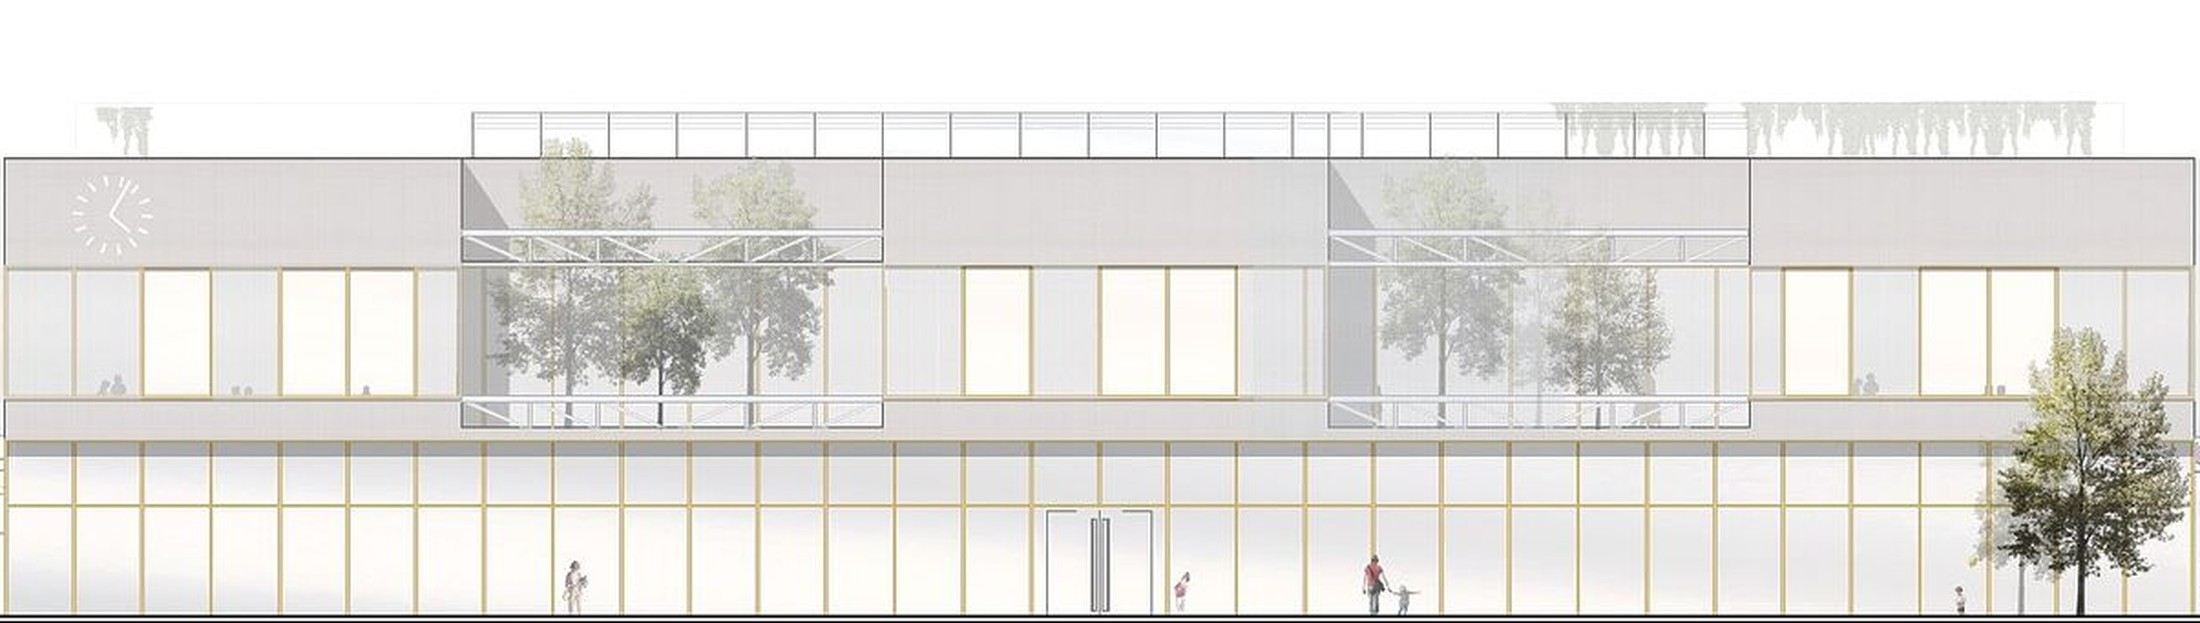
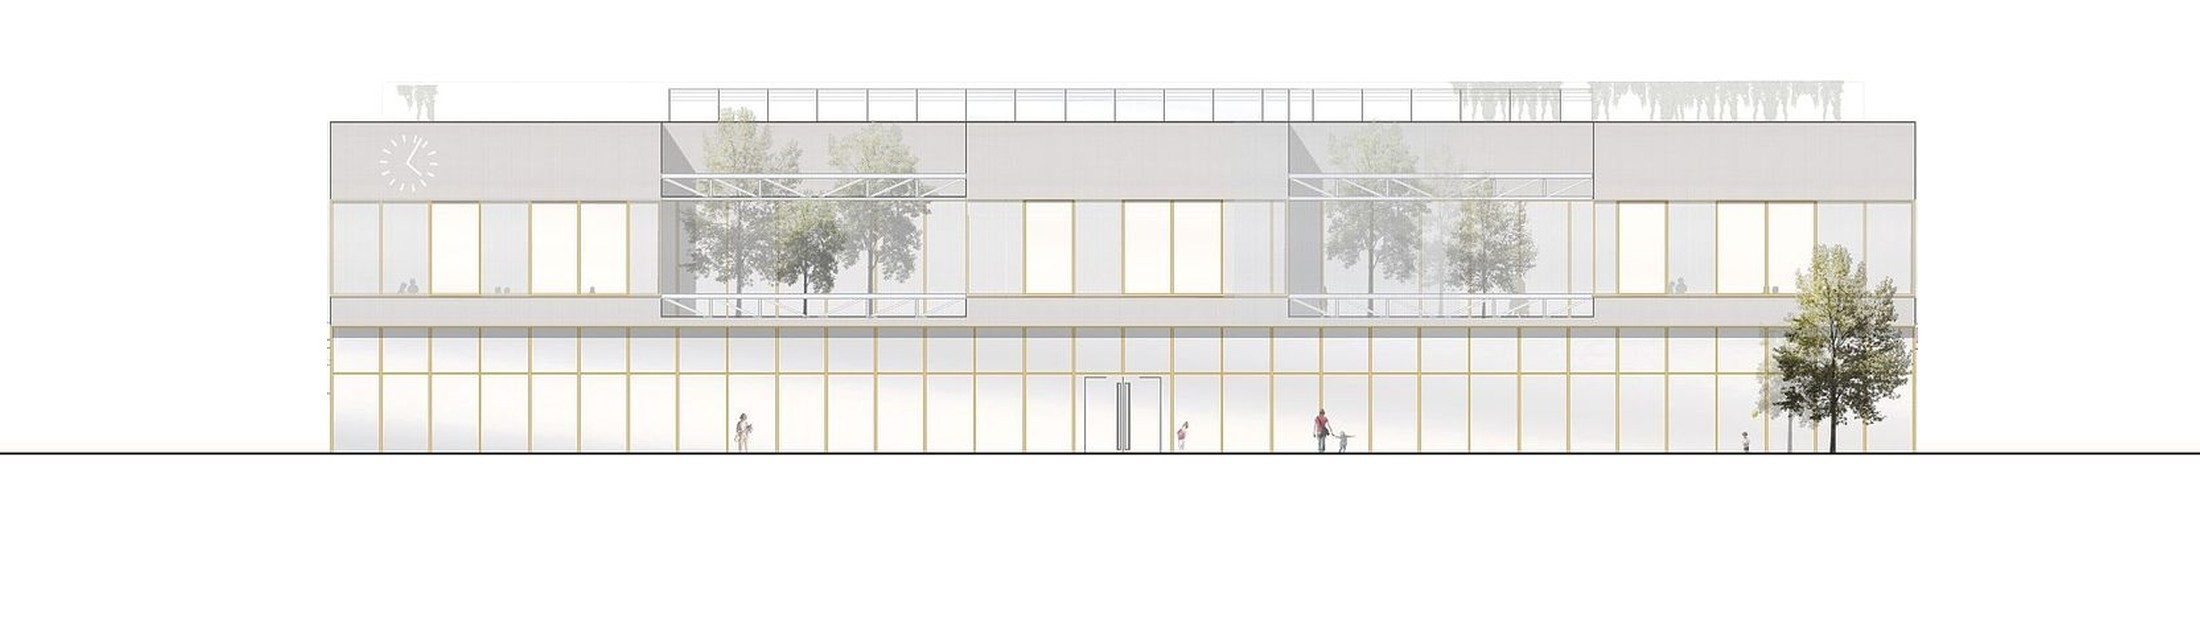
Website aktualisiert 15.11.2026 18:45

diff --git a/index.html b/index.html
@@ -334,6 +334,21 @@ div.box{cursor:default}
 @keyframes skHop{0%,55%,100%{transform:translateY(0) rotate(0)}75%{transform:translateY(-.7%) rotate(-2deg)}}
 @keyframes skWave{0%,40%,100%{transform:rotate(0)}55%{transform:rotate(-12deg)}70%{transform:rotate(4deg)}85%{transform:rotate(-10deg)}}
 @keyframes skSway{from{transform:rotate(-3deg)}to{transform:rotate(3deg)}}
+.box.sk-stage .skp-out{transform-origin:9.205% 73.194%;animation:skWalk 1.30s ease-in-out infinite;animation-delay:-0.00s}
+.box.sk-stage .skp-og1{transform-origin:19.182% 47.833%;animation:skSway 4.65s ease-in-out infinite;animation-delay:-0.70s}
+.box.sk-stage .skp-sit1{transform-origin:35.0% 73.194%;animation:skLean 6.40s ease-in-out infinite;animation-delay:-1.40s}
+.box.sk-stage .skp-st1{transform-origin:36.159% 73.194%;animation:skSway 4.20s ease-in-out infinite;animation-delay:-2.10s}
+.box.sk-stage .skp-st2{transform-origin:37.023% 73.194%;animation:skSway 4.65s ease-in-out infinite;animation-delay:-2.80s}
+.box.sk-stage .skp-sit2{transform-origin:45.659% 73.194%;animation:skLean 6.40s ease-in-out infinite;animation-delay:-3.50s}
+.box.sk-stage .skp-walk{transform-origin:57.773% 73.194%;animation:skWalk 1.30s ease-in-out infinite;animation-delay:-0.30s}
+.box.sk-stage .skp-desk{transform-origin:74.159% 44.141%;animation:skDesk 5.25s ease-in-out infinite;animation-delay:-4.90s}
+.box.sk-stage .skp-ogp{transform-origin:81.818% 47.833%;animation:skLean 6.40s ease-in-out infinite;animation-delay:-5.60s}
+.box.sk-stage .skp-k1{transform-origin:75.386% 73.194%;animation:skSway 4.20s ease-in-out infinite;animation-delay:-2.10s}
+.box.sk-stage .skp-man{transform-origin:83.386% 73.194%;animation:skSway 4.65s ease-in-out infinite;animation-delay:-2.35s}
+@keyframes skWalk{0%,50%,100%{transform:translateY(0)}25%,75%{transform:translateY(-.35%)}}
+@keyframes skSway{0%,100%{transform:rotate(-2deg)}50%{transform:rotate(2deg)}}
+@keyframes skLean{0%,100%{transform:rotate(0)}50%{transform:rotate(3deg)}}
+@keyframes skDesk{0%,30%,100%{transform:rotate(0)}55%,75%{transform:rotate(5deg)}}
 @media (prefers-reduced-motion: reduce){.box.sk-stage img.sk{animation:none!important}}
 </style>
 </head>
@@ -592,7 +607,7 @@ div.box{cursor:default}
         <figure><div class="box free" data-cap="Grundriss OG · Lerncluster und Freiluftklassenzimmer"><img src="img/s-og.jpg" alt="Grundriss Obergeschoss" loading="lazy"></div><figcaption><b>Grundriss OG</b> Lerncluster, Freiluftklassen</figcaption></figure>
       </div>
       <div class="row">
-        <figure><div class="box free sk-stage" data-cap="Längsschnitt · Lernflur unter dem Bogendach der Markthalle"><img src="img/s-schnitt-base.jpg" alt="Längsschnitt" loading="lazy"><img class="sk sk-plA" src="img/s-schnitt-plA.png" alt="" loading="lazy"><img class="sk sk-plB" src="img/s-schnitt-plB.png" alt="" loading="lazy"><img class="sk sk-kid" src="img/s-schnitt-kid.png" alt="" loading="lazy"><img class="sk sk-wave" src="img/s-schnitt-wave.png" alt="" loading="lazy"></div>
+        <figure><div class="box free sk-stage" data-cap="Längsschnitt · Lernflur unter dem Bogendach der Markthalle"><img src="img/s-schnitt-base.jpg" alt="Längsschnitt" loading="lazy"><img class="sk skp-out" src="img/s-schnitt-p-out.png" alt="" loading="lazy"><img class="sk skp-og1" src="img/s-schnitt-p-og1.png" alt="" loading="lazy"><img class="sk skp-sit1" src="img/s-schnitt-p-sit1.png" alt="" loading="lazy"><img class="sk skp-st1" src="img/s-schnitt-p-st1.png" alt="" loading="lazy"><img class="sk skp-st2" src="img/s-schnitt-p-st2.png" alt="" loading="lazy"><img class="sk skp-sit2" src="img/s-schnitt-p-sit2.png" alt="" loading="lazy"><img class="sk skp-walk" src="img/s-schnitt-p-walk.png" alt="" loading="lazy"><img class="sk skp-desk" src="img/s-schnitt-p-desk.png" alt="" loading="lazy"><img class="sk skp-ogp" src="img/s-schnitt-p-ogp.png" alt="" loading="lazy"><img class="sk skp-k1" src="img/s-schnitt-p-k1.png" alt="" loading="lazy"><img class="sk skp-man" src="img/s-schnitt-p-man.png" alt="" loading="lazy"><img class="sk sk-plA" src="img/s-schnitt-plA.png" alt="" loading="lazy"><img class="sk sk-plB" src="img/s-schnitt-plB.png" alt="" loading="lazy"><img class="sk sk-kid" src="img/s-schnitt-kid.png" alt="" loading="lazy"><img class="sk sk-wave" src="img/s-schnitt-wave.png" alt="" loading="lazy"></div>
           <figcaption><b>Längsschnitt</b> Lernflur unter dem Bogendach der Markthalle</figcaption></figure>
       </div>
       <div class="row split">
